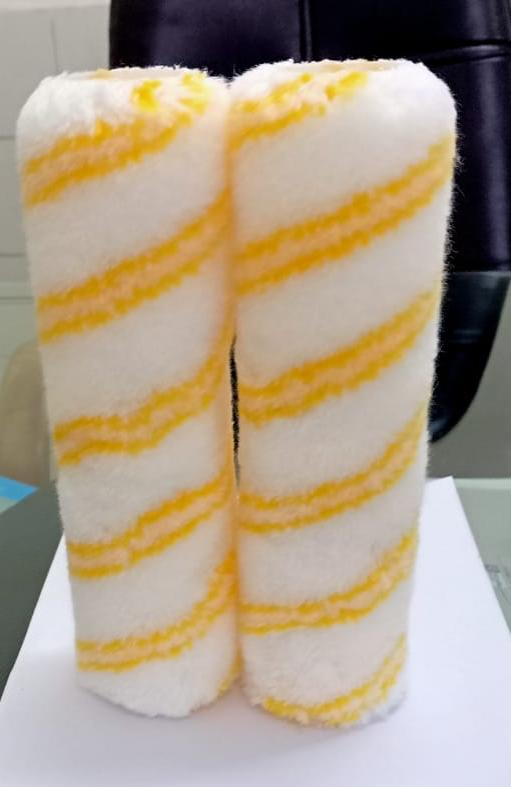
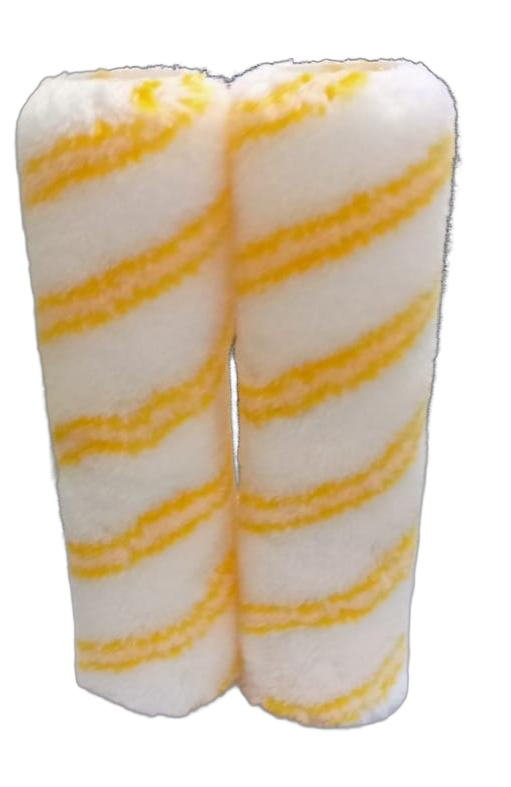
made changes in name

diff --git a/website/src/app/contact/page.tsx b/website/src/app/contact/page.tsx
@@ -140,7 +140,8 @@ export default function ContactPage() {
                         Factory Management
                       </h4>
                       <p className="text-sm font-bold text-slate-900 mt-1">
-                        CEO: Mr. Bipin Mishra and Namita Mahadik
+                        CEO: Mr. Bipin Mishra <br />
+                        Namita Mahadik
                       </p>
                       <p className="text-xs text-slate-500 mt-0.5">
                         Personal attention to corporate and contract accounts

diff --git a/website/src/components/Footer.tsx b/website/src/components/Footer.tsx
@@ -214,7 +214,7 @@ export default function Footer() {
             </div>
 
             <div className="pt-2 text-xs text-slate-400">
-              <span className="text-slate-500">Director: </span>
+              <span className="text-slate-500">CEO: </span>
               <span className="text-slate-300 font-medium">{COMPANY_DETAILS.director}</span>
             </div>
           </div>
